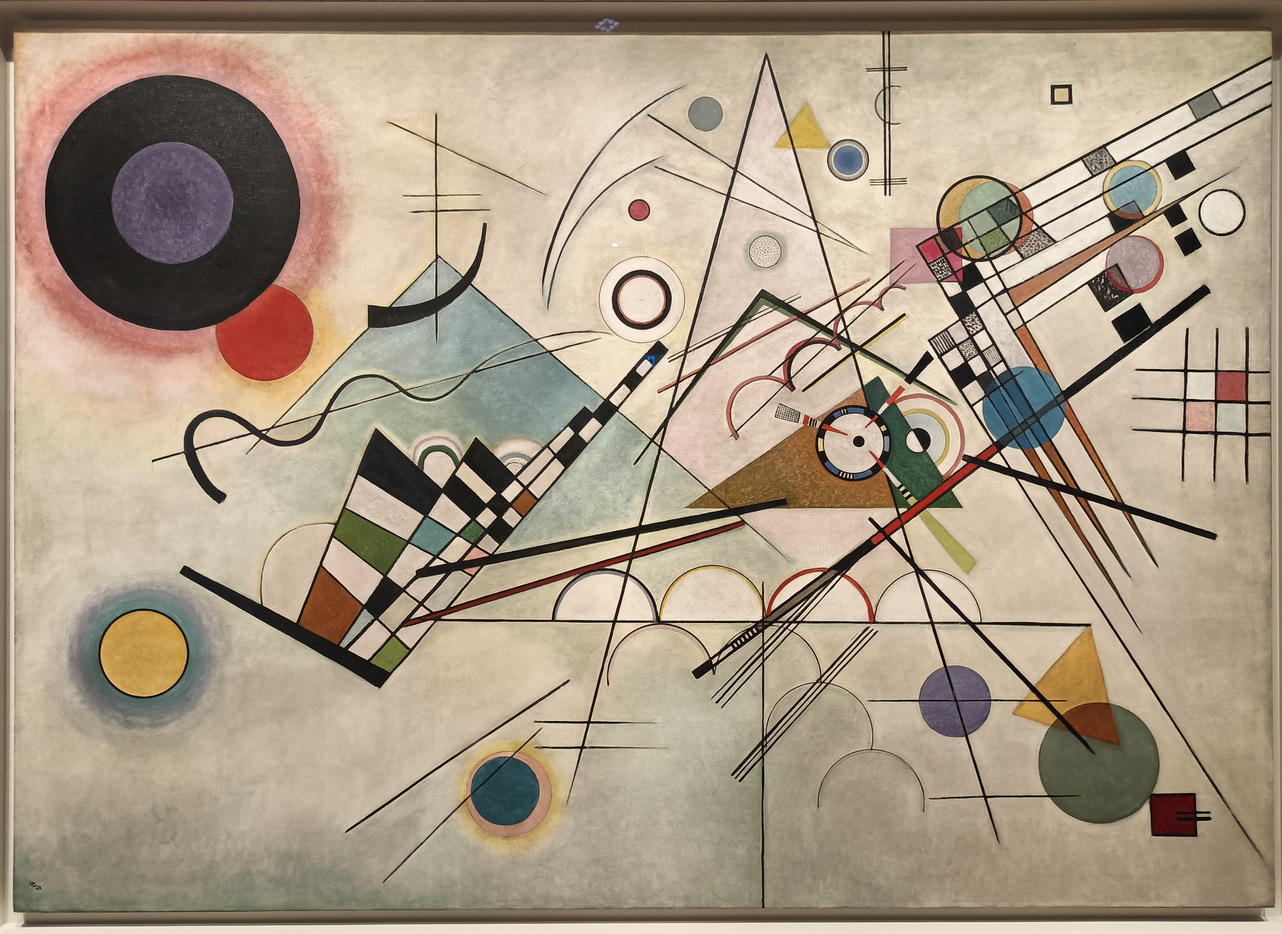
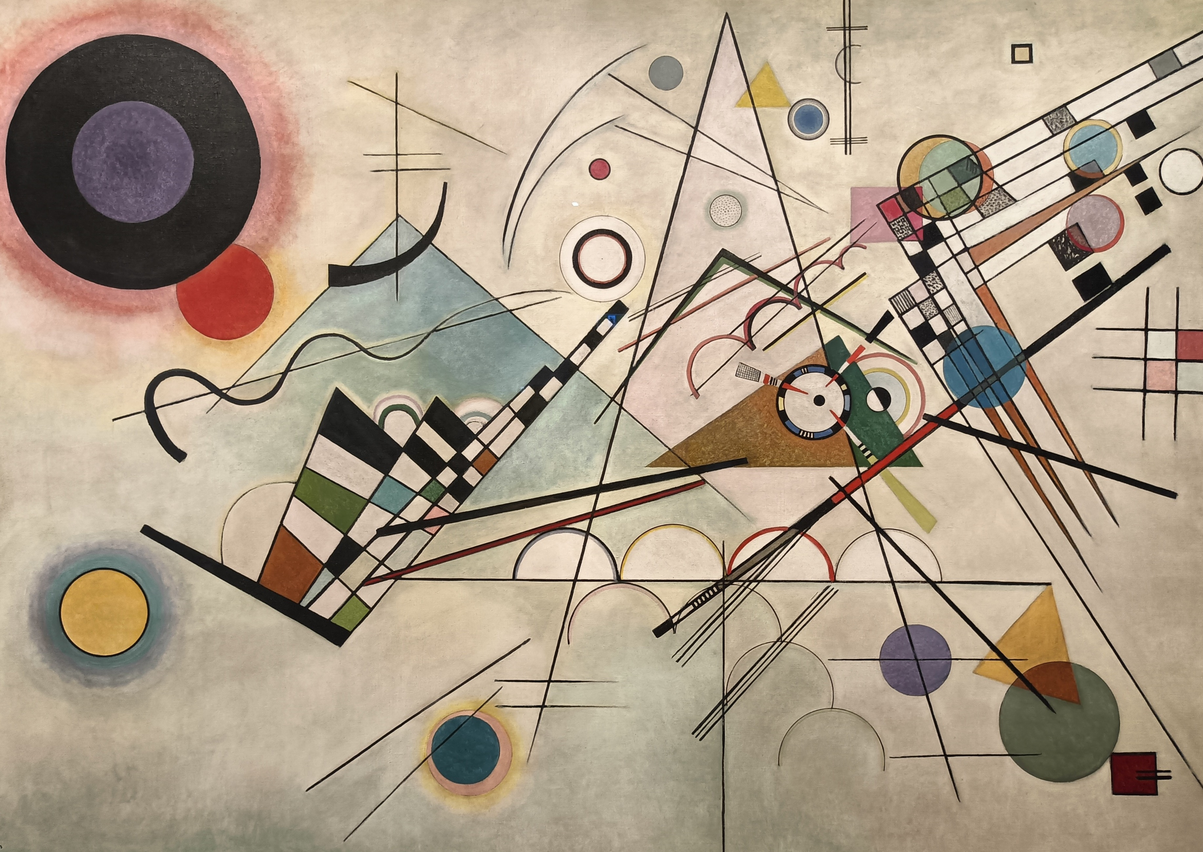
fix(content): Composition VIII 1929 purchase + frame crop
Guggenheim bought the painting from Kandinsky's Dessau studio in
spring 1929, not 1930 per the Guggenheim's own records; corrected
both mentions. Cropped the museum frame (and a small sensor-tag
artifact) out of the scan via sips center-crop, verified clean on
all four edges and the corner where the painting's black disc sits
close to the canvas edge.

Claude-Session: https://claude.ai/code/session_01FwVNiKcrjk1peiaA3mAcWK

diff --git a/src/content/works/composition-viii.md b/src/content/works/composition-viii.md
@@ -17,7 +17,7 @@ Set *Composition VIII* beside *Composition VII* and it is hard to believe the sa
 
 The shift came out of Kandinsky's new home. After the First World War drove him back to Russia, and the upheavals there stripped him of his property and his standing, he returned to Germany in 1921 and, in 1922, joined the Bauhaus, the radical school of art and design founded by the architect Walter Gropius. There, surrounded by teachers who believed art and engineering should fuse into a new visual language for the modern world, Kandinsky's own painting grew disciplined and precise. Point, line, and plane became his vocabulary; the geometry he had once buried beneath emotion now stood proudly on the surface. He painted *Composition VIII* in July 1923, and regarded it as a high point of his post-war years.
 
-Its afterlife made it a cornerstone of an American institution. In 1930 the mining magnate Solomon R. Guggenheim, guided by his adviser Hilla Rebay, travelled to the Bauhaus — by then relocated to Dessau — to meet Kandinsky, and bought *Composition VIII* directly from the artist. It became one of the anchors of Guggenheim's astonishing Kandinsky collection and, eventually, of the spiralling Frank Lloyd Wright museum on Fifth Avenue built to house it. The picture that Kandinsky made to declare a new, ordered vision of art now hangs at the heart of one of the world's most famous galleries.
+Its afterlife made it a cornerstone of an American institution. In 1929 the mining magnate Solomon R. Guggenheim, guided by his adviser Hilla Rebay, travelled to the Bauhaus — by then relocated to Dessau — to meet Kandinsky, and bought *Composition VIII* directly from the artist. It became one of the anchors of Guggenheim's astonishing Kandinsky collection and, eventually, of the spiralling Frank Lloyd Wright museum on Fifth Avenue built to house it. The picture that Kandinsky made to declare a new, ordered vision of art now hangs at the heart of one of the world's most famous galleries.
 
 ## The World Behind It
 
@@ -36,6 +36,6 @@ This was the beginning of his long, disciplined late maturity. The passionate, a
 - *Composition VIII* is the cool, geometric answer to the fiery chaos of *Composition VII*, painted ten years and a world war later.
 - Kandinsky painted it in July 1923, during his years teaching at the Bauhaus in Weimar.
 - The large black disc haloed in pink and violet in the upper left anchors the whole composition.
-- Solomon R. Guggenheim bought the picture directly from Kandinsky in 1930, on a visit to the Bauhaus in Dessau.
+- Solomon R. Guggenheim bought the picture directly from Kandinsky in 1929, on a visit to the Bauhaus in Dessau.
 - It became a cornerstone of the Guggenheim's collection, which is among the largest holdings of Kandinsky's work anywhere.
 - At the Bauhaus in Dessau, Kandinsky and his close friend Paul Klee lived side by side in a pair of adjoining masters' houses.
